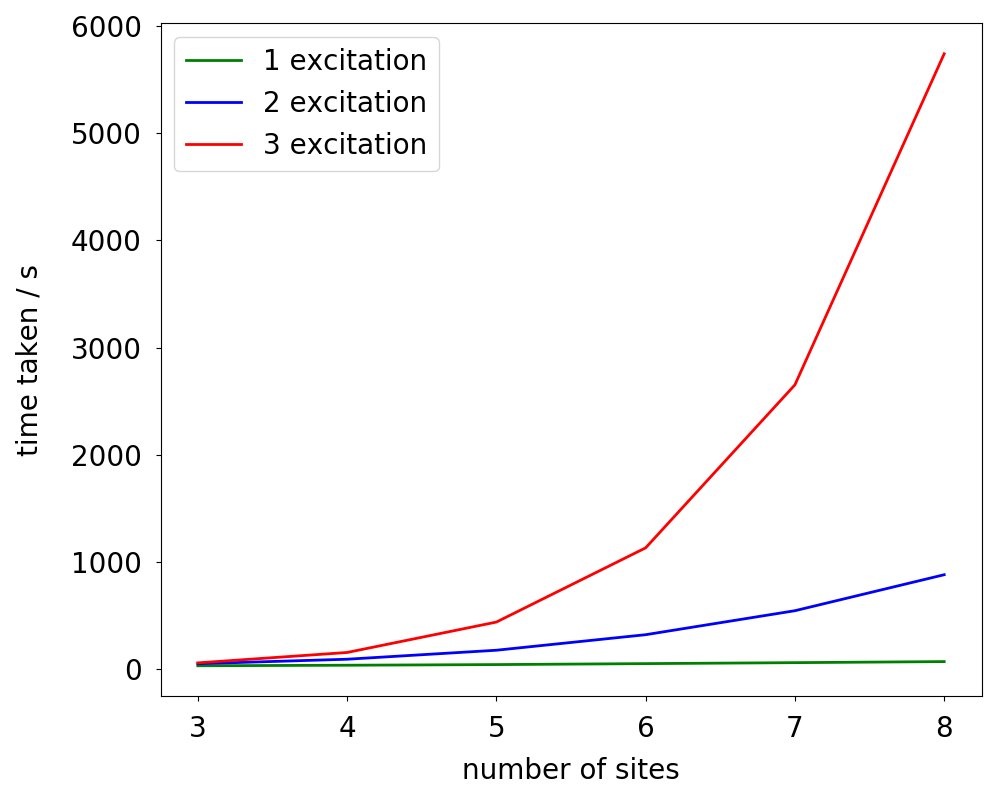
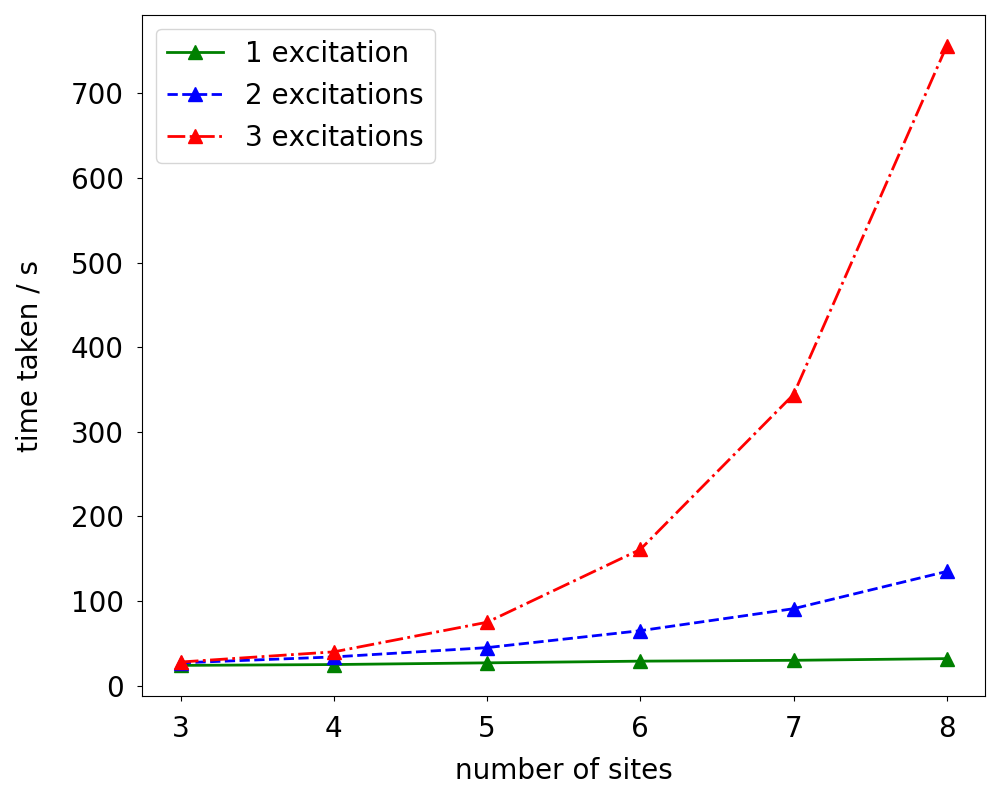
reworked scaling utility, fixed bug when inputting small genome

diff --git a/src/scaling.py b/src/scaling.py
@@ -11,7 +11,7 @@ plt.figure(figsize=(10,8))
 # Create the axes
 ax1=plt.subplot()
 
-# Load the data from the scaling file
+# Load the data from the parallel scaling file
 cores = []
 speedup = []
 ideal = []
@@ -23,8 +23,8 @@ with open("scalingParallel.dat", "r") as f:
         ideal.append(int(split[0]))
 
 # Plot each line
-plt.plot(cores, speedup, color='green', lw=2, label="actual")
-plt.plot(cores, ideal, color='blue', lw=2, label="ideal")
+plt.plot(cores, speedup, "-g^", lw=2, ms=10, label="actual")
+plt.plot(cores, ideal, "--b", lw=2, ms=10, label="ideal")
 
 # Set the size of the axis ticks
 ax1.tick_params(axis='y', labelsize=20)
@@ -39,60 +39,9 @@ ax1.set_ylabel("speedup", labelpad=20)
 # Add the legend
 l=legend(loc="upper left", ncol=1, fontsize=20)
 
+# Nicer spacing
 plt.tight_layout()
 
 # Save as a png
 savefig('scalingParallel.png', transparent=False)
-
-# Clear to reuse for the site scaling
-plt.clf()
-
-# Set up the figure
-plt.figure(figsize=(10,8))
-
-# Create the axes
-ax1=plt.subplot()
-
-# Load the data from the scaling file
-numSites = []
-time1Excite = []
-time2Excite = []
-time3Excite = []
-with open("scaling1Excite.dat", "r") as f:
-    for line in f:
-        split = line.split()
-        numSites.append(int(split[0]))
-        time1Excite.append(float(split[1]))
-with open("scaling2Excite.dat", "r") as f:
-    for line in f:
-        split = line.split()
-        time2Excite.append(float(split[1]))
-with open("scaling3Excite.dat", "r") as f:
-    for line in f:
-        split = line.split()
-        time3Excite.append(float(split[1]))
-
-# Plot each line
-plt.plot(numSites, time1Excite, color='green', lw=2, label="1 excitation")
-plt.plot(numSites, time2Excite, color='blue', lw=2, label="2 excitation")
-plt.plot(numSites, time3Excite, color='red', lw=2, label="3 excitation")
-
-# Set the size of the axis ticks
-ax1.tick_params(axis='y', pad=10, labelsize=20)
-ax1.tick_params(axis='x', pad=10, labelsize=20)
-
-# Set the names of the axis labels
-plt.xlabel('number of sites', fontsize=20, color='black')
-plt.ylabel('time taken / s', fontsize=20, color='black')
-ax1.set_xlabel("number of sites", labelpad=10)
-ax1.set_ylabel("time taken / s", labelpad=20)
-
-# Add the legend
-l=legend(loc='upper left', ncol=1, fontsize=20)
-
-plt.tight_layout()
-
-# Save as a png
-savefig('scalingSites.png', transparent=False)
-
 

diff --git a/src/sites.py b/src/sites.py
@@ -1,0 +1,57 @@
+#! /usr/bin/python3
+import matplotlib.pyplot as plt
+import numpy as np
+import re
+import sys
+from pylab import *
+
+# Set up the figure
+plt.figure(figsize=(10,8))
+
+# Create the axes
+ax1=plt.subplot()
+
+# Load the data from the sites scaling file
+numSites = []
+time1Excite = []
+time2Excite = []
+time3Excite = []
+with open("scaling1Excite.dat", "r") as f:
+    for line in f:
+        split = line.split()
+        numSites.append(int(split[0]))
+        time1Excite.append(float(split[1]))
+with open("scaling2Excite.dat", "r") as f:
+    for line in f:
+        split = line.split()
+        time2Excite.append(float(split[1]))
+with open("scaling3Excite.dat", "r") as f:
+    for line in f:
+        split = line.split()
+        time3Excite.append(float(split[1]))
+
+# Plot each line
+plt.plot(numSites, time1Excite, "-g^", ms=10, lw=2, label="1 excitation")
+plt.plot(numSites, time2Excite, "--b^", ms=10, lw=2, label="2 excitations")
+plt.plot(numSites, time3Excite, "-.r^", ms=10, lw=2, label="3 excitations")
+
+# Set the size of the axis ticks
+ax1.tick_params(axis='y', pad=10, labelsize=20)
+ax1.tick_params(axis='x', pad=10, labelsize=20)
+
+# Set the names of the axis labels
+plt.xlabel('number of sites', fontsize=20, color='black')
+plt.ylabel('time taken / s', fontsize=20, color='black')
+ax1.set_xlabel("number of sites", labelpad=10)
+ax1.set_ylabel("time taken / s", labelpad=20)
+
+# Add the legend
+l=legend(loc='upper left', ncol=1, fontsize=20)
+
+# Nicer spacing
+plt.tight_layout()
+
+# Save as a png
+savefig('scalingSites.png', transparent=False)
+
+
